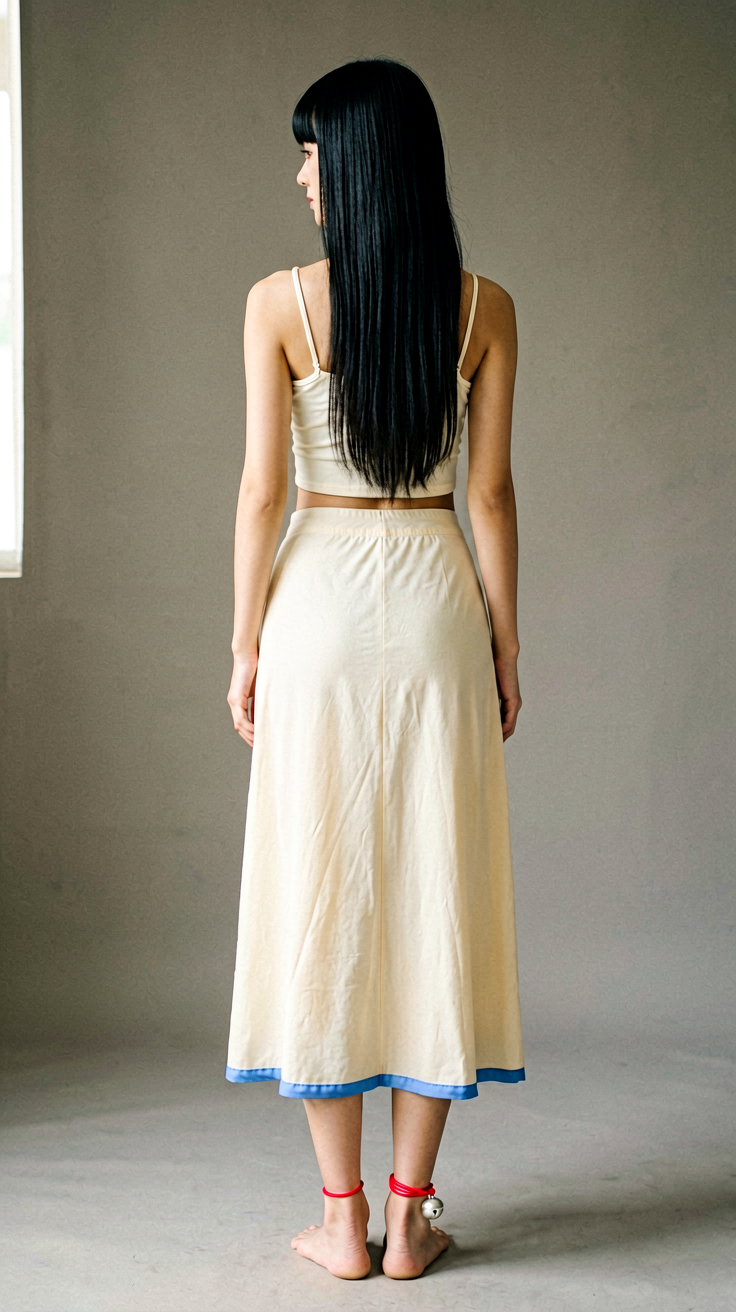
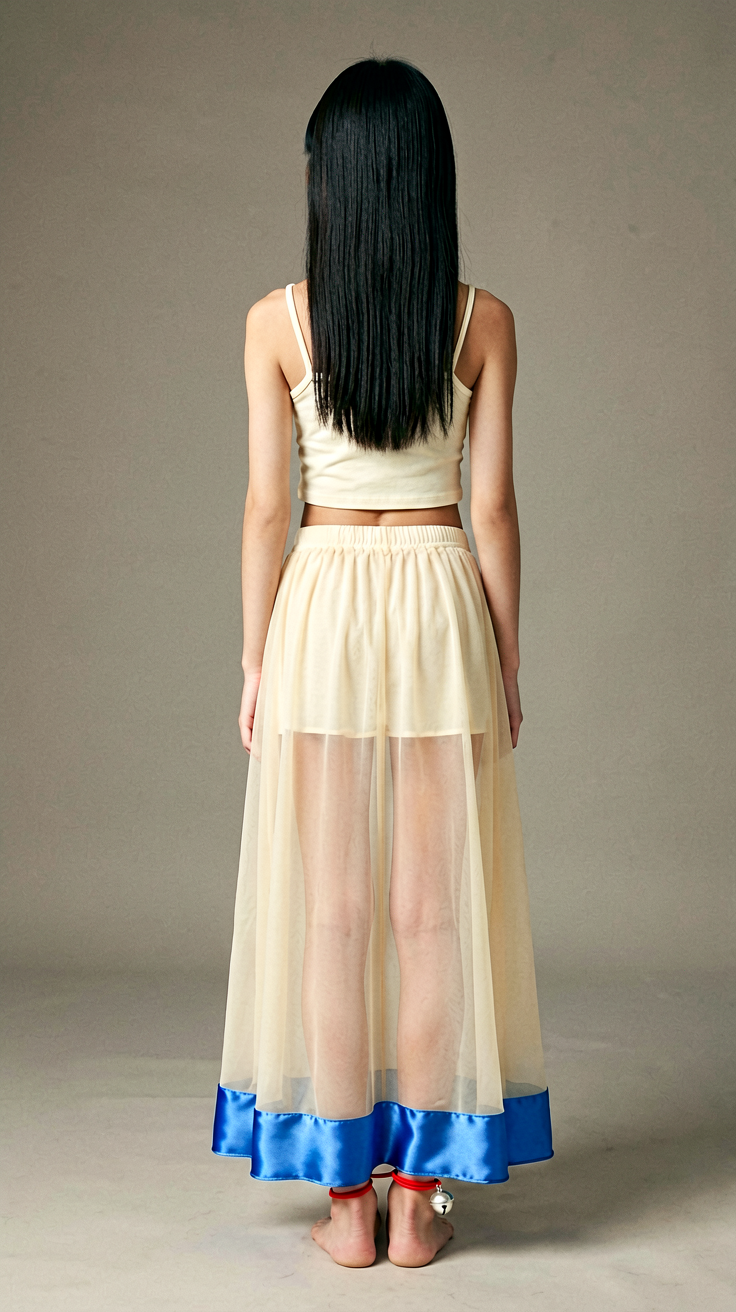
定妆照：吴依依_v3 最终定稿（背影视角，透光薄纱长裙+加宽流光绸缎蓝边；红绳银铃锁死挂左脚踝，右手腕光素；设定卡同步更新为'定妆照主图带红绳银铃挂左脚踝、不穿凉鞋'的新规格）

diff --git a/01_大纲/狐渡_角色视觉设定.md b/01_大纲/狐渡_角色视觉设定.md
@@ -74,8 +74,8 @@
 
 **妆造锚定词（出图固定规格，勿漂移）**
 - 发型：**齐刘海＋双侧直发垂到胸前（发在身前，不甩背后）**（无辫无髻，以定妆照 `吴依依_v3.png` 为准）
-- 服装（上下两截，粉白两色）：**粉白色小吊带背心（细肩带双肩/两臂整个露出，保守圆领，到自然腰线收，露出一段平坦小腹）** ＋ **粉白色长裙，下摆蓝色包边宽约 10cm**
-- 定妆照主图：**不画银饰、不画手腕光绳、不画红绳银铃、不穿凉鞋**（锚物细节交给专项特写图，见下"出图纪律"）
+- 服装（上下两截，粉白两色）：**粉白色小吊带背心（细肩带双肩/两臂整个露出，保守圆领，到自然腰线收，露出一段平坦小腹）** ＋ **粉白色透光薄纱长裙，下摆蓝色包边加宽至约 15cm，做流光绸缎效果**（薄纱透光，裙摆垂顺盖到脚面，出图时双脚脚踝自然被裙摆半遮）
+- 定妆照主图：**不画银饰、不画手腕光绳、不穿凉鞋（光脚）**；**红绳银铃挂在左脚踝（画面右侧那只脚）**，右手腕光素无绳无铃
 
 **出图纪律（定妆照 vs 分镜帧，各管各的）**
 - 定妆照（全身）：**只锁脸型/发型/服装大块面**，锚物（银铃/光绳/凉鞋）一律不画——反复出图证明，全身图里画小细节（红绳/银铃）模型控制力太弱，不如交给单项特写
